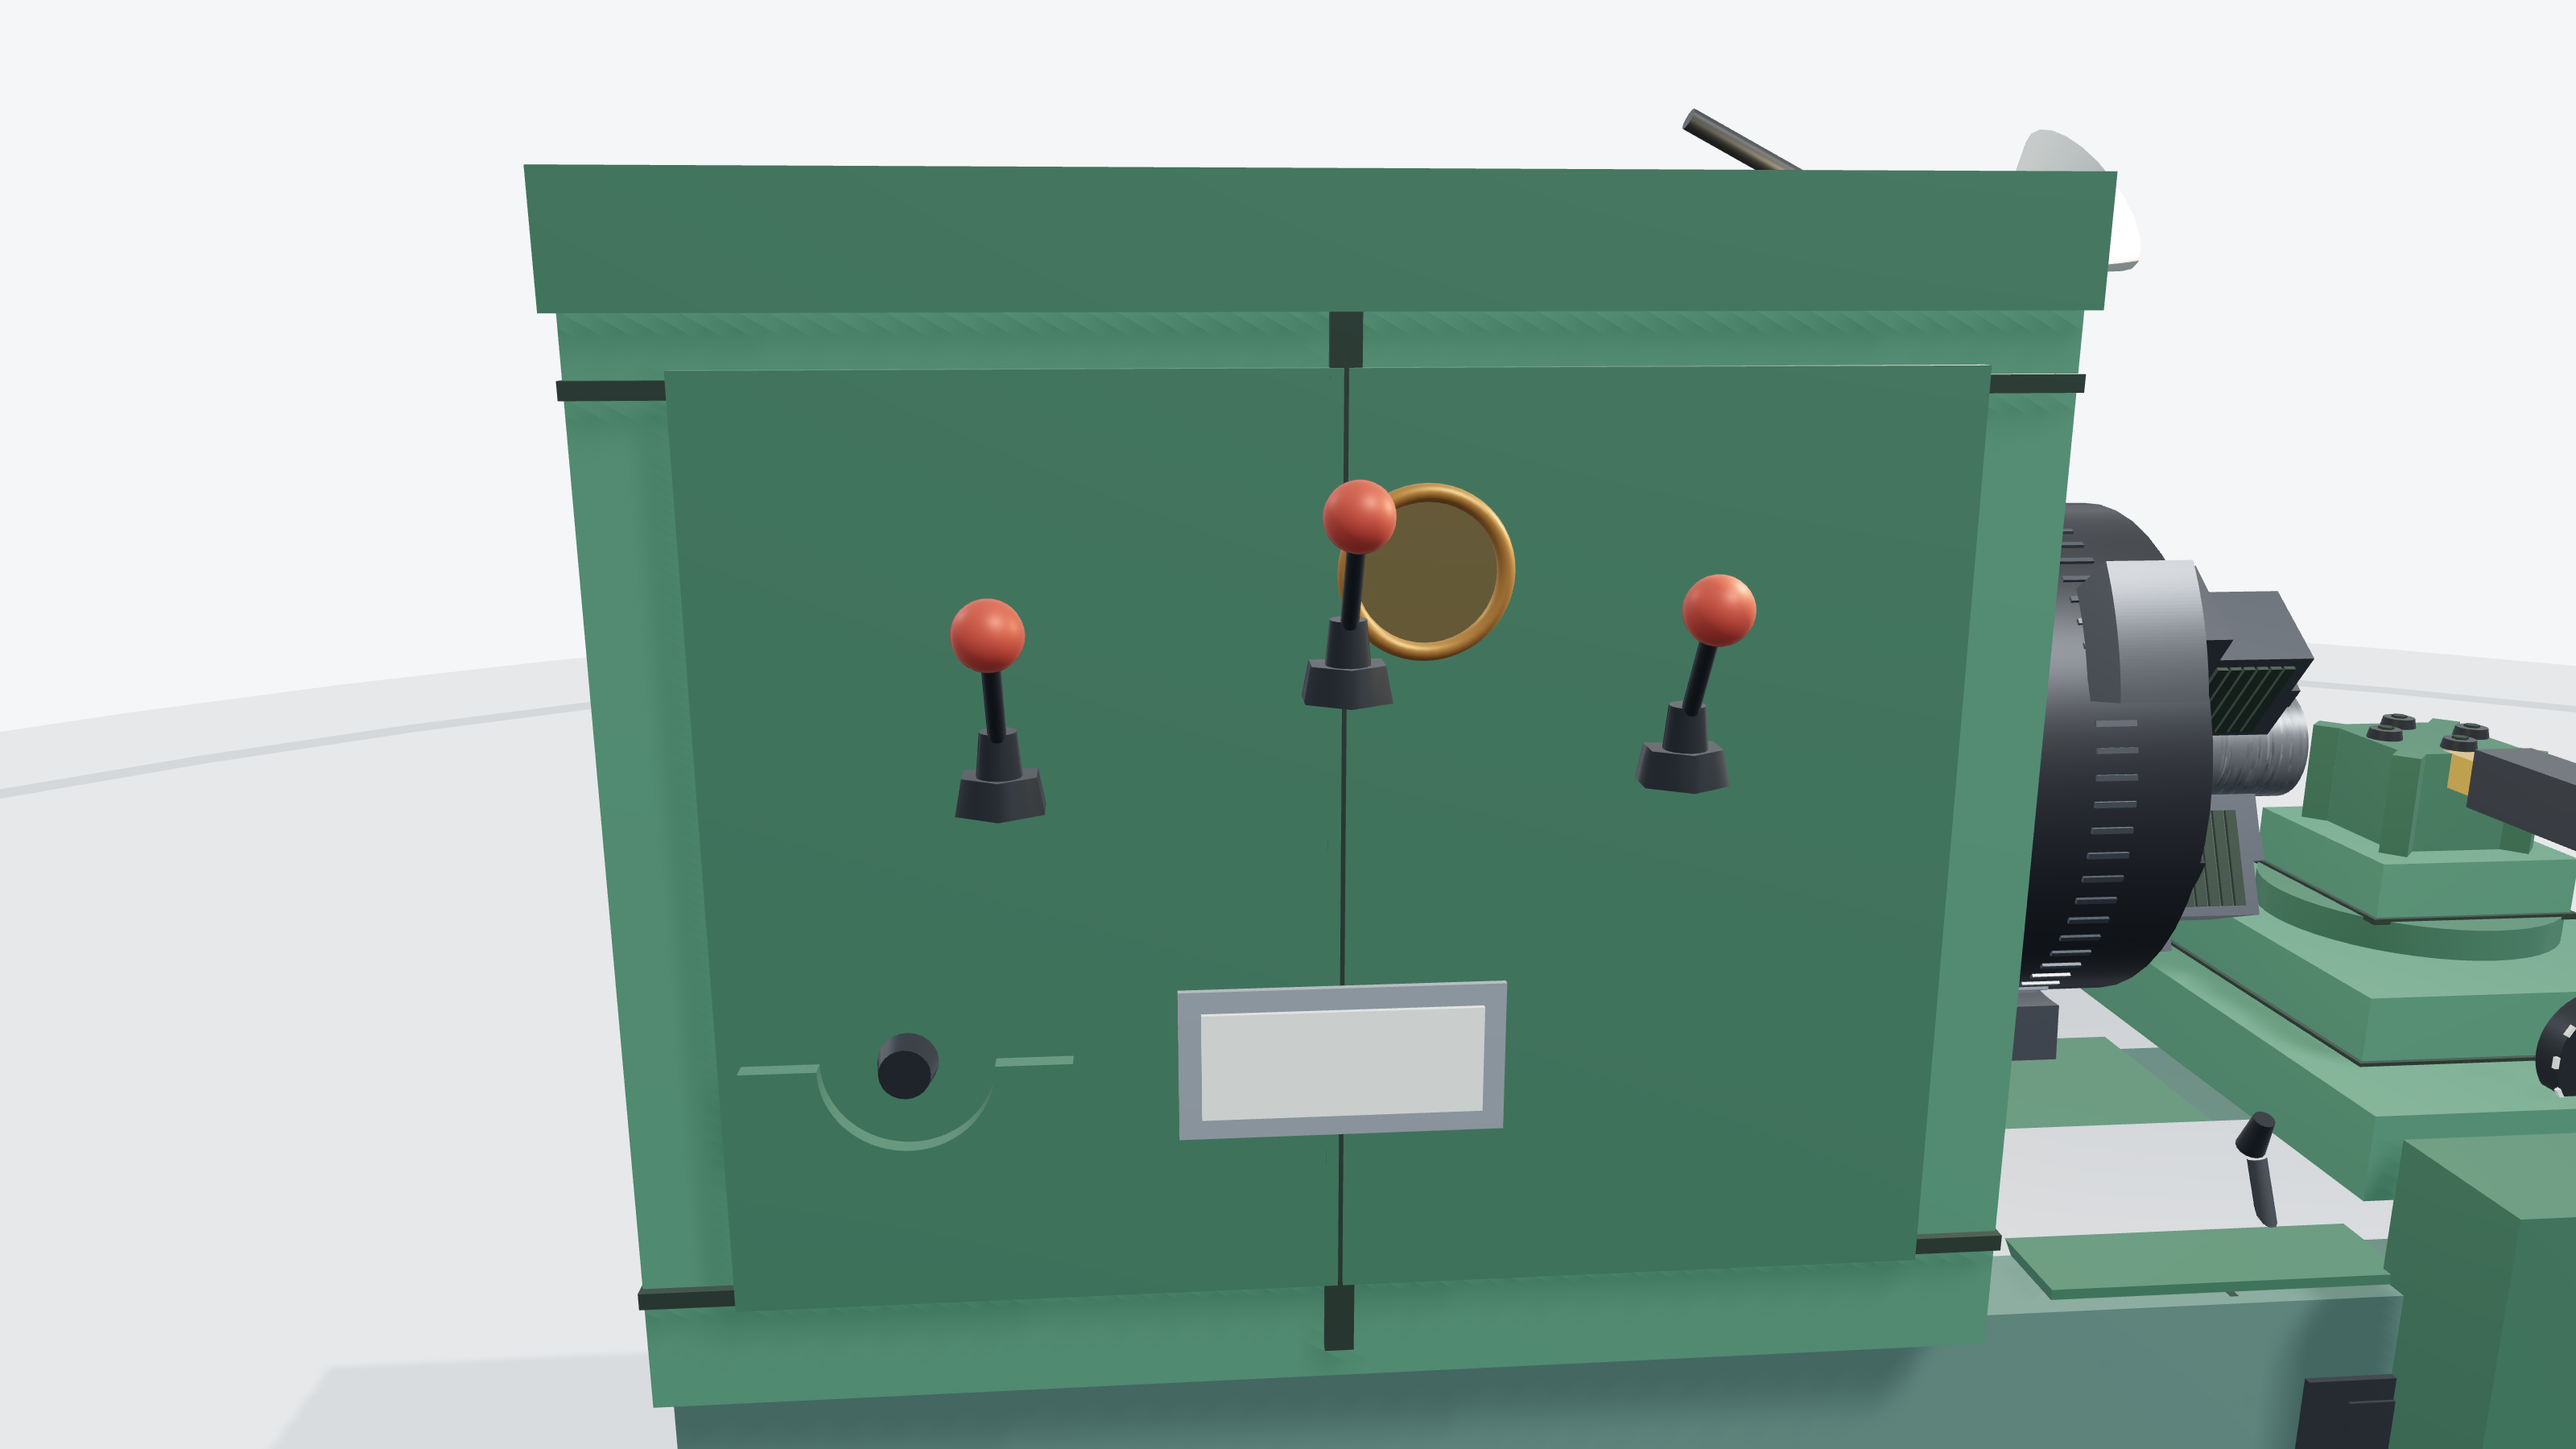
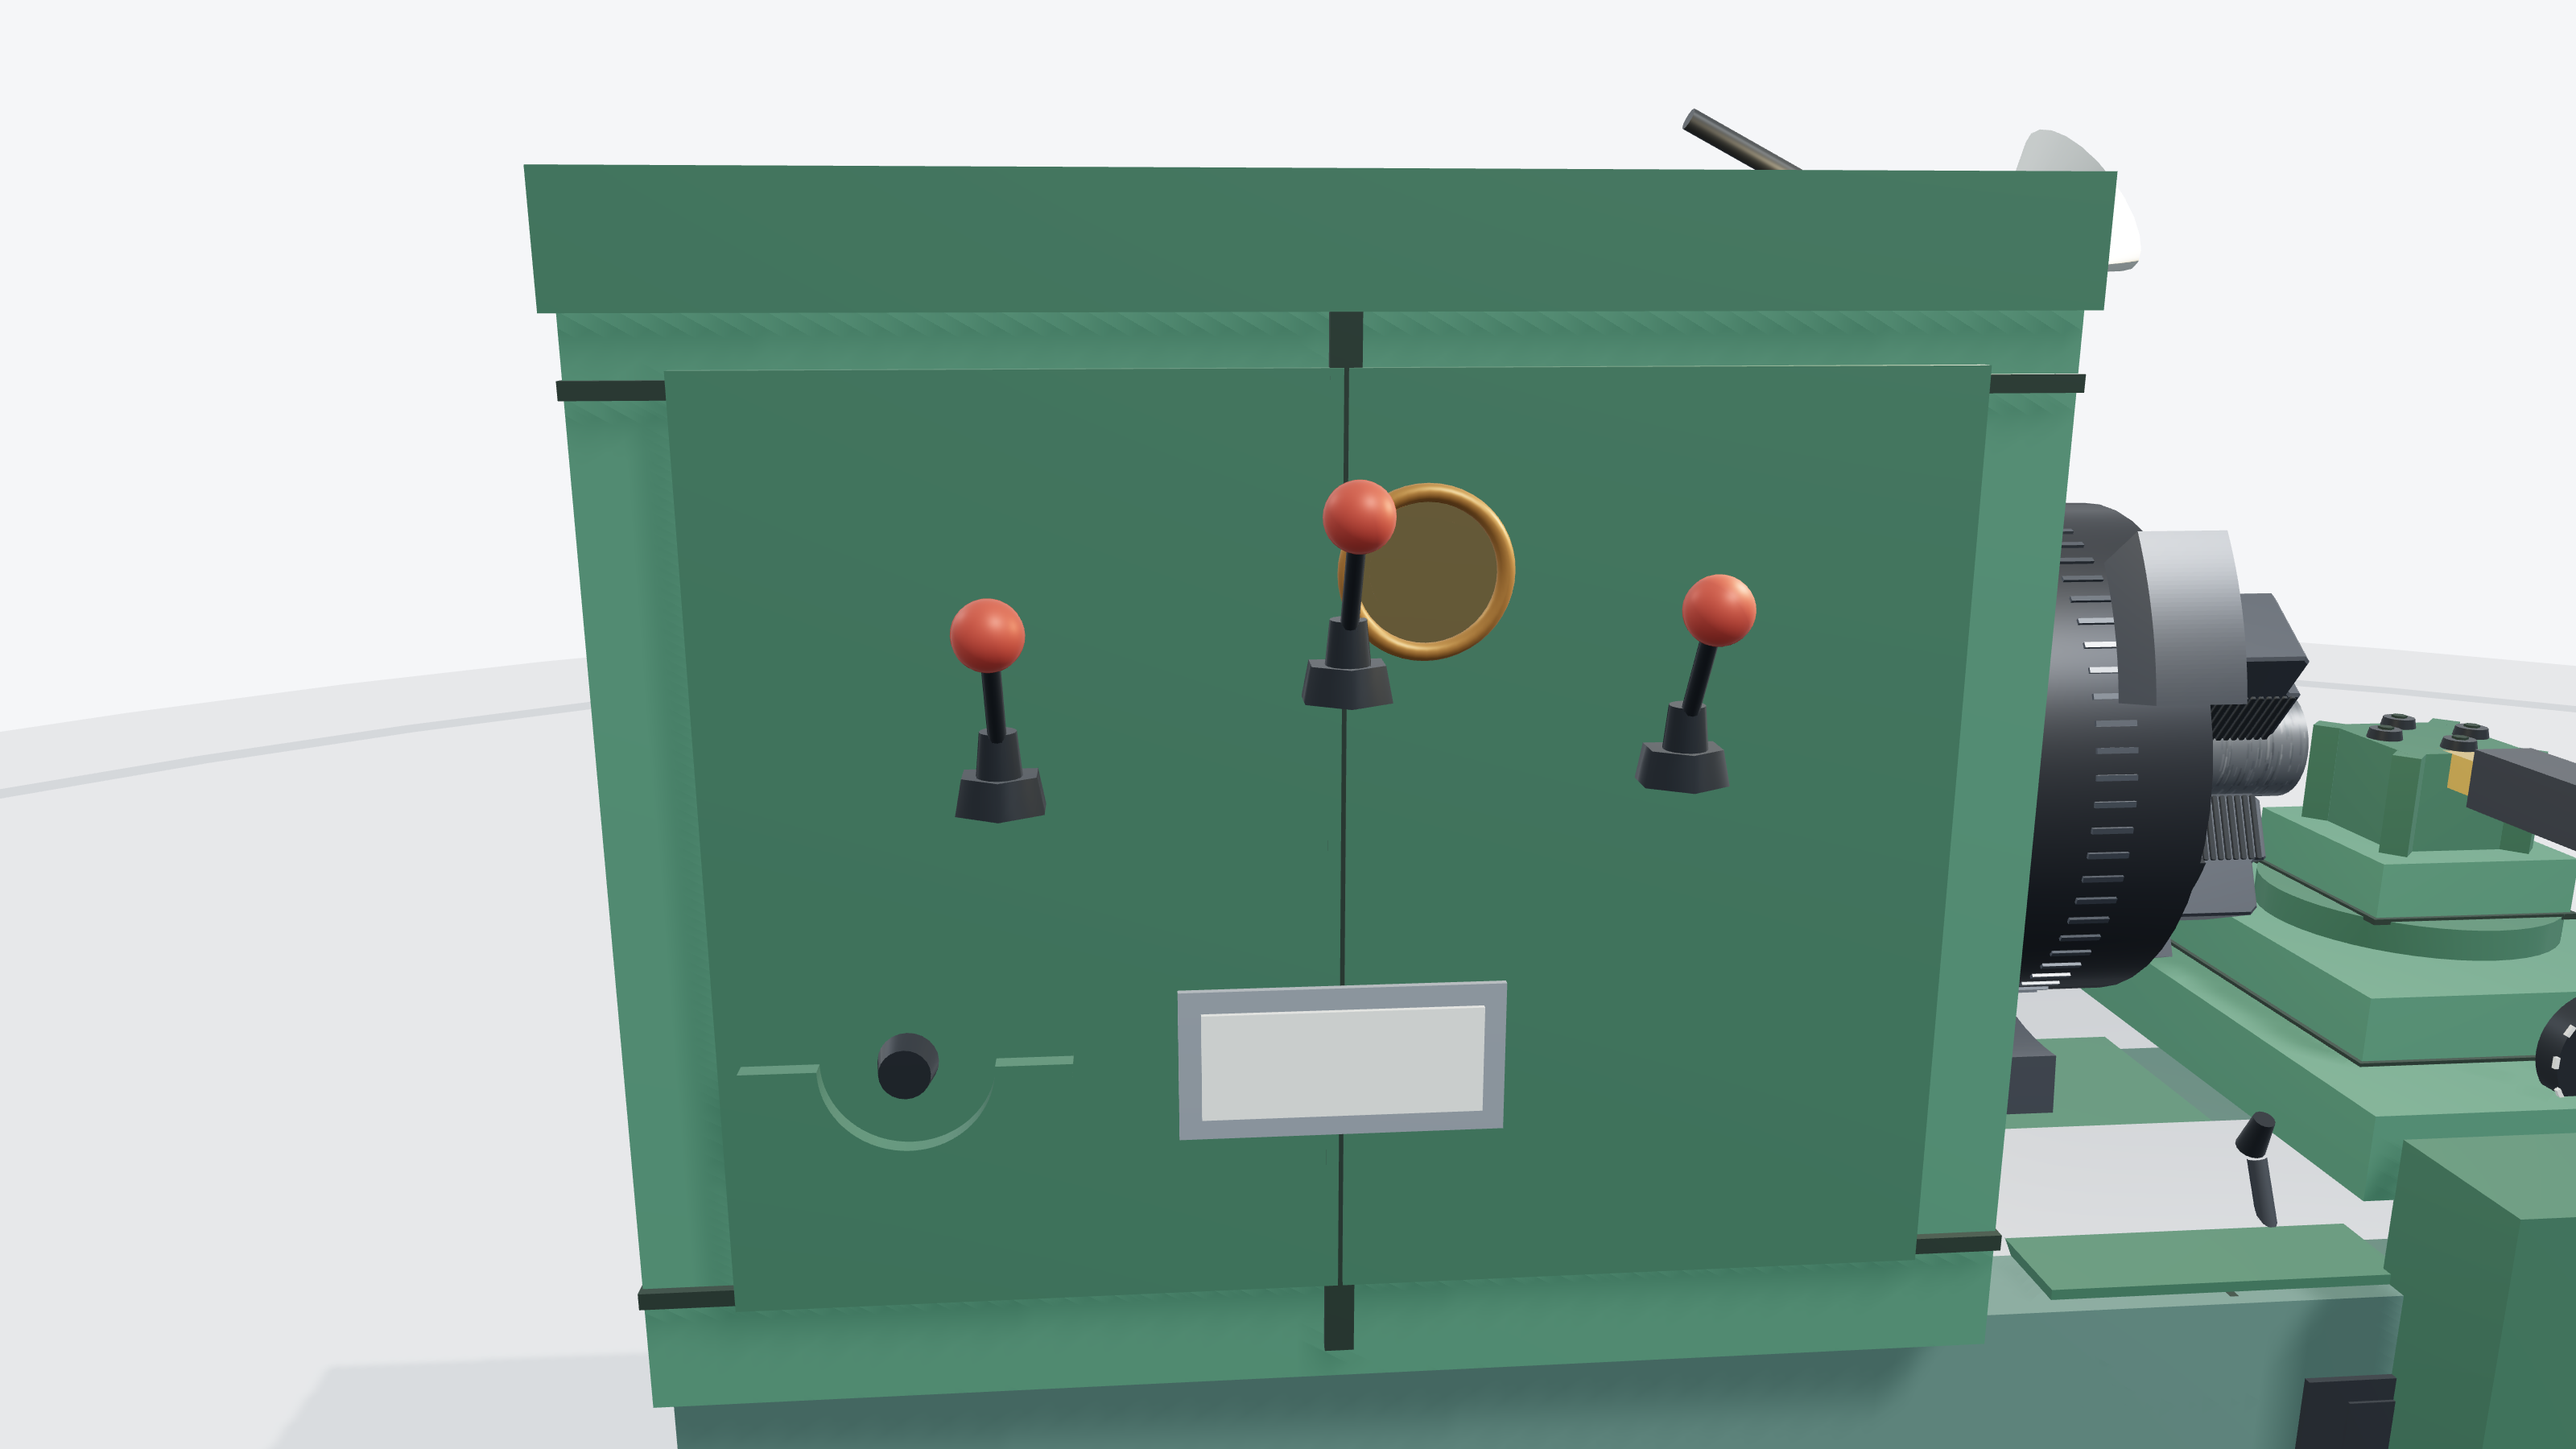
fix(edulab): AT-097-R3 卡盘爪近景终修——爪体一体轮廓全棱倒角+密集齿排+爪背弧板闭合态贴合（JAW_TRAVEL 同源）+沉头内六角压紧螺钉；全量截图与冒烟重跑覆盖

Changed region(s): [[0.7812, 0.3422, 0.9062, 0.4978], [0.8438, 0.5289, 0.875, 0.6533], [0.7812, 0.6844, 0.8125, 0.7778]]

diff --git a/edulab/assets/js/lab-lathe.js b/edulab/assets/js/lab-lathe.js
@@ -296,6 +296,7 @@ let lampShade, lampBulb;
 // 工件几何基准（mm）：毛坯 φ60×220，卡盘端面 x=-3.8u，爪外留出长度可调
 const CHUCK_FACE_X = -3.8;      // 卡盘端面（工件坐标 Z0 可建在此处）
 const CHUCK_BODY_R = 1.3;       // 卡盘体外圆半径（壳体/爪背弧板/滚花同源曲率，禁各写独立半径）
+const JAW_TRAVEL = 0.3;         // 爪径向开合全行程（setJaws 位移与爪背弧板基准同源共用）
 const STOCK_R = 30;             // 毛坯半径 mm
 const STOCK_LEN = 220;          // 毛坯总长 mm
 const N_ST = 111;               // 轮廓站位数（每 2 mm 一站）
@@ -455,7 +456,7 @@ function spindleBuild() {
     for (let i = 0; i < 3; i++) {
       const piv = new THREE.Group();
       piv.rotation.x = (i * 2 * Math.PI) / 3;
-      const jw = mesh(arcPlateX(CHUCK_BODY_R - 0.02, 1.6, 0.42, 0.42), CM.jaw(), { p: [-4.3, 0, 0], cast: true }); // 爪背弧板（曲率同源卡盘体外圆，内缘微沉 0.02 消缝隙台阶）
+      const jw = mesh(arcPlateX(CHUCK_BODY_R + JAW_TRAVEL - 0.02, 1.6 + JAW_TRAVEL, 0.42, 0.42), CM.jaw(), { p: [-4.3, 0, 0], cast: true }); // 爪背弧板（曲率同源卡盘体外圆；基准抬 JAW_TRAVEL，闭合态内缘贴体微沉 0.02，消缝隙台阶）
       jw.name = 'chuck';
       const seat = mesh(box(0.3, 0.85, 0.5), CM.jaw(), { p: [-3.8, 1.03, 0], cast: true });       // 滑座（骑前端面 T 形槽；抬高 0.03 防闭合态蹭工件）
       seat.name = 'chuck';
@@ -470,7 +471,7 @@ function spindleBuild() {
       const finsMesh = bakedMesh(fins, CM.recess(), 'chuck');                                     // 密集齿排（每侧 11 条合并单 mesh）
       const screw = mesh(cyl(0.075, 0.085, 0.05, 20), CM.dial(), { p: [-3.145, 1.1, 0], r: [0, 0, -Math.PI / 2], cast: true }); // 压紧螺钉沉头（同刀架内六角款式）
       screw.name = 'chuck';
-      const hexHole = mesh(cyl(0.038, 0.038, 0.054, 6), CM.seam(), { p: [-3.137, 1.1, 0], r: [0, 0, -Math.PI / 2] });           // 内六角孔
+      const hexHole = mesh(cyl(0.038, 0.038, 0.04, 6), CM.seam(), { p: [-3.152, 1.1, 0], r: [0, 0, -Math.PI / 2] });            // 内六角孔（沉入头面 0.012，侧视不露绿边）
       hexHole.name = 'chuck';
       piv.add(jw, seat, jb, finsMesh, screw, hexHole);
       jawPivots.push(piv);
@@ -1241,9 +1242,8 @@ function finishPass(stopped) {
 
 const chuck = { jawPos: 1, target: 1, keyShown: false, keyT: 0, anim: null }; // jawPos: 0 闭合(夹 φ60) ↔ 1 张开
 function setJaws(pos) {
-  const r = 0.86 + (pos - 1) * 0.32; // 闭合 0.86 → 张开 1.18（爪中心半径）
   for (const piv of jawPivots) {
-    for (const ch of piv.children) ch.position.y = ch.userData.baseY || (ch.userData.baseY = ch.position.y), ch.position.y = ch.userData.baseY + (pos - 1) * 0.30;
+    for (const ch of piv.children) ch.position.y = ch.userData.baseY || (ch.userData.baseY = ch.position.y), ch.position.y = ch.userData.baseY + (pos - 1) * JAW_TRAVEL;
   }
   chuck.jawPos = pos;
 }
